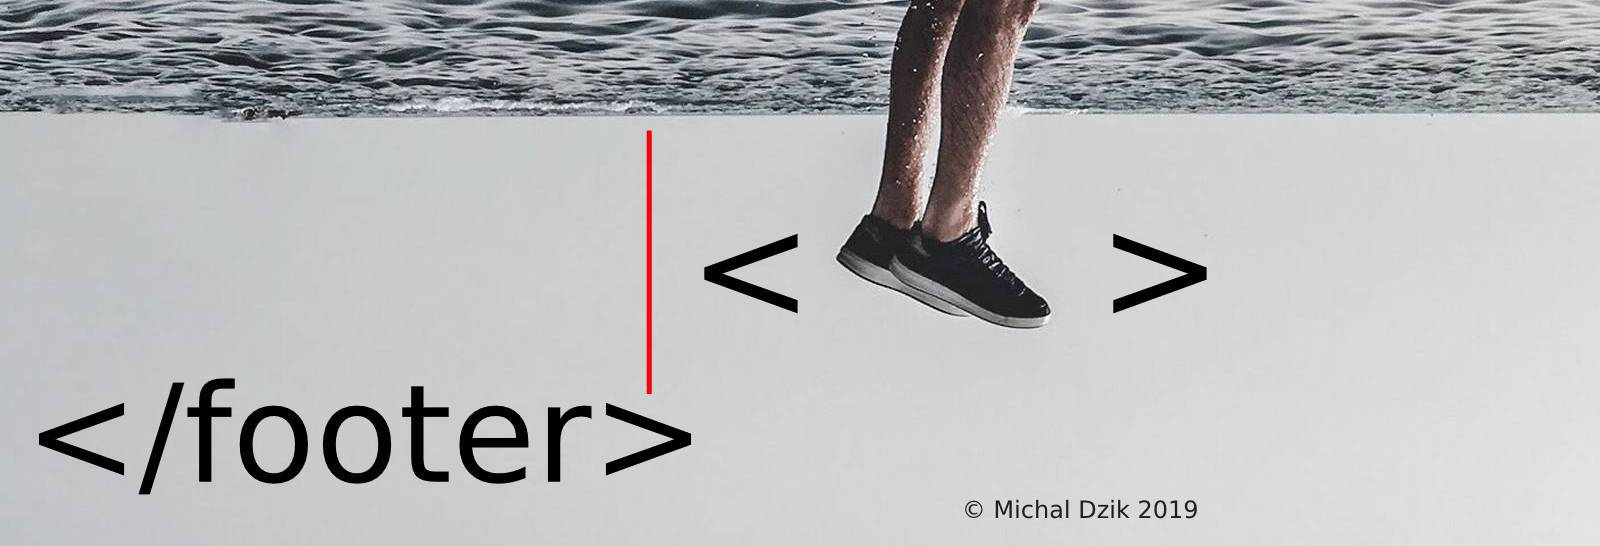
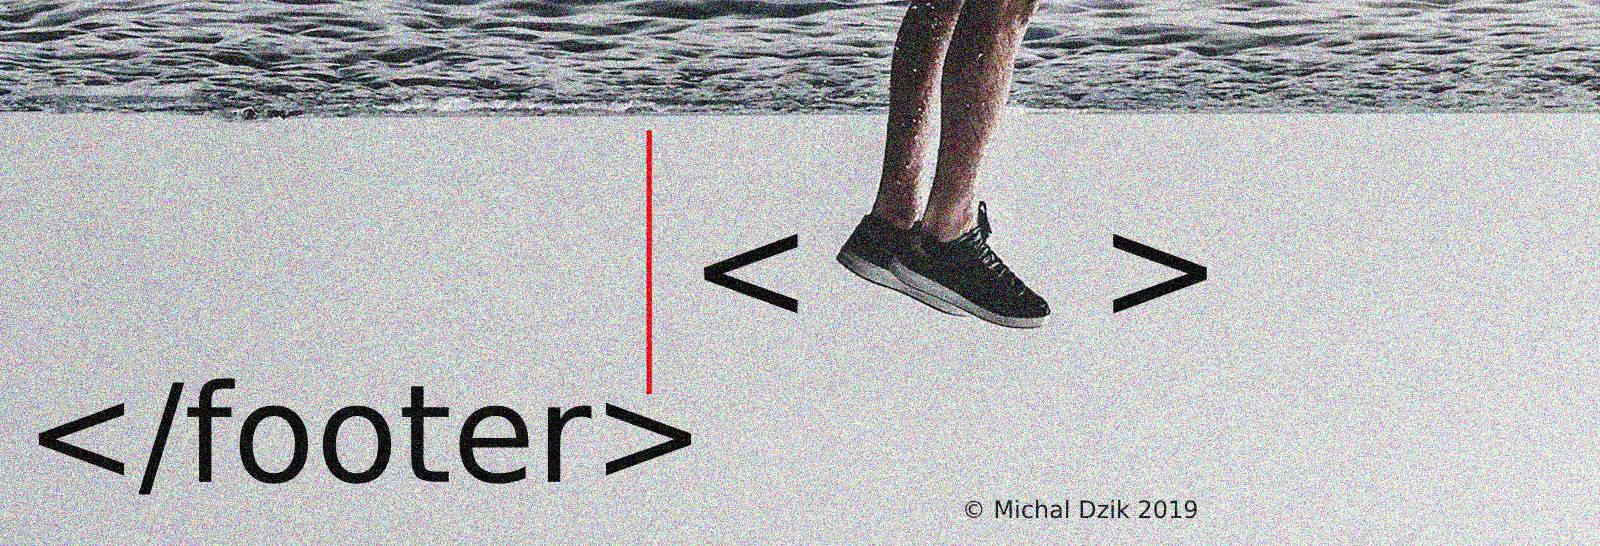
change design concept

diff --git a/index.html b/index.html
@@ -45,18 +45,18 @@
         <div id="aboutMe" class="anyclass">
             <p class='contentAboutMe'>
                 <span class='centerIt'>I am a junior front-end developer looking for his first
-                    job.</span>
+                    job or traineeship .</span>
                 <br>
                 I value good, honest and intuitive design as well as reliable operation of websites.
                 I am currently exploring the following technologies and concepts: JS, React, JQuery, SASS, Flexbox,
                 Grid, Git, OOP, RWD. I think I have mastered them to the extent that allows me to take up my first job
-                as a junior developer. I'm available to most european countries, relocation is no problem.
+                as a junior developer. I'm available to most European countries, relocation is no problem.
                 <br> <br>I'm dependable, reliable, hard-working and easy-going person. Acquiring
                 knowledge and learning new skills takes my whole life, I know that this process will never end.I have a
                 university medical degree and background, but after years of working in this industry, I decided,
                 chasing my dreams, to change my career path to information technology. In pursuit of creative,
                 aesthetically pleasing and intellectually challenging work, I decided to follow the path of front-end
-                developement, programming and design. My personal interests also include technology, art, music
+                development, programming and design. My personal interests also include technology, art, music
                 composition (<a class='waterbreathing' href="https://www.youtube.com/watch?v=zGIp21wPNN0&t=107s"
                     target='_blank'>link</a>), philosophy, psychology and personal development.
             </p>

diff --git a/css/style.css b/css/style.css
@@ -78,6 +78,10 @@ img {
 
 .showFoot {
     opacity: 1;
+    -webkit-filter: invert(0.7);
+    filter: invert(0.7);
+    /* background-image: url('https://img.pngio.com/collection-of-tv-static-png-36-images-in-collection-tv-static-png-1920_1080.png'); */
+
 }
 
 .navi {
